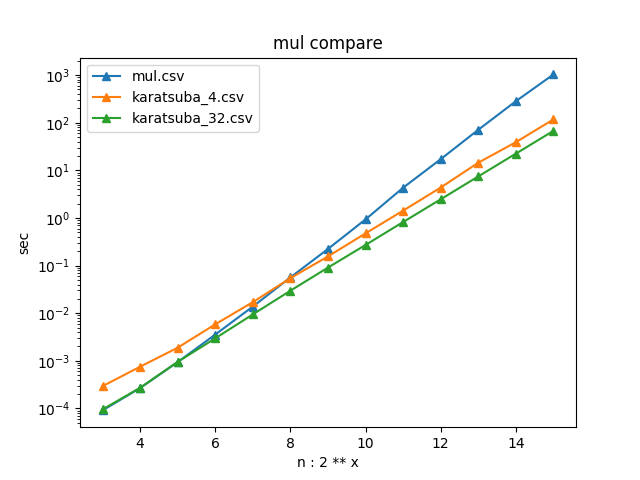
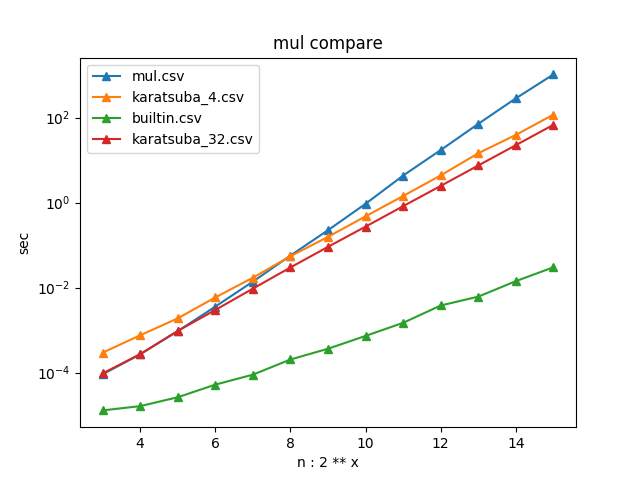
add : karatsuba 32

diff --git a/multiply_py/plot_builtin.py b/multiply_py/plot_builtin.py
@@ -1,0 +1,37 @@
+import time
+from mul1 import mul_nn
+import matplotlib.pyplot as plt
+import math
+import random
+from tqdm import tqdm
+import pandas as pd
+from utils import to_ls, int_ls
+
+def pl_mul(reps):
+    x = []
+    y = []
+    for i in tqdm(range(reps)):
+        keta = 8 * (2**i)
+        a = random.randrange(10 ** keta, 10 ** (keta + 1))
+        b = random.randrange(10 ** keta, 10 ** (keta + 1))
+        a = to_ls(a)
+        b = to_ls(b)
+        # 計測部
+        t1 = time.time()
+        int_ls(a) * int_ls(b)
+        t2 = time.time()
+
+        elapsed_time = t2-t1
+        x.append(math.log(keta, 2))
+        y.append(elapsed_time)
+
+    # 描画
+    plt.plot(x, y, marker='^')
+    plt.yscale('log')
+    plt.savefig("builtin.png")
+    df = pd.DataFrame({'2**': x, 'time': y})
+    df.to_csv("builtin.csv", index=False)
+
+
+if __name__ == '__main__':
+    pl_mul(13)
